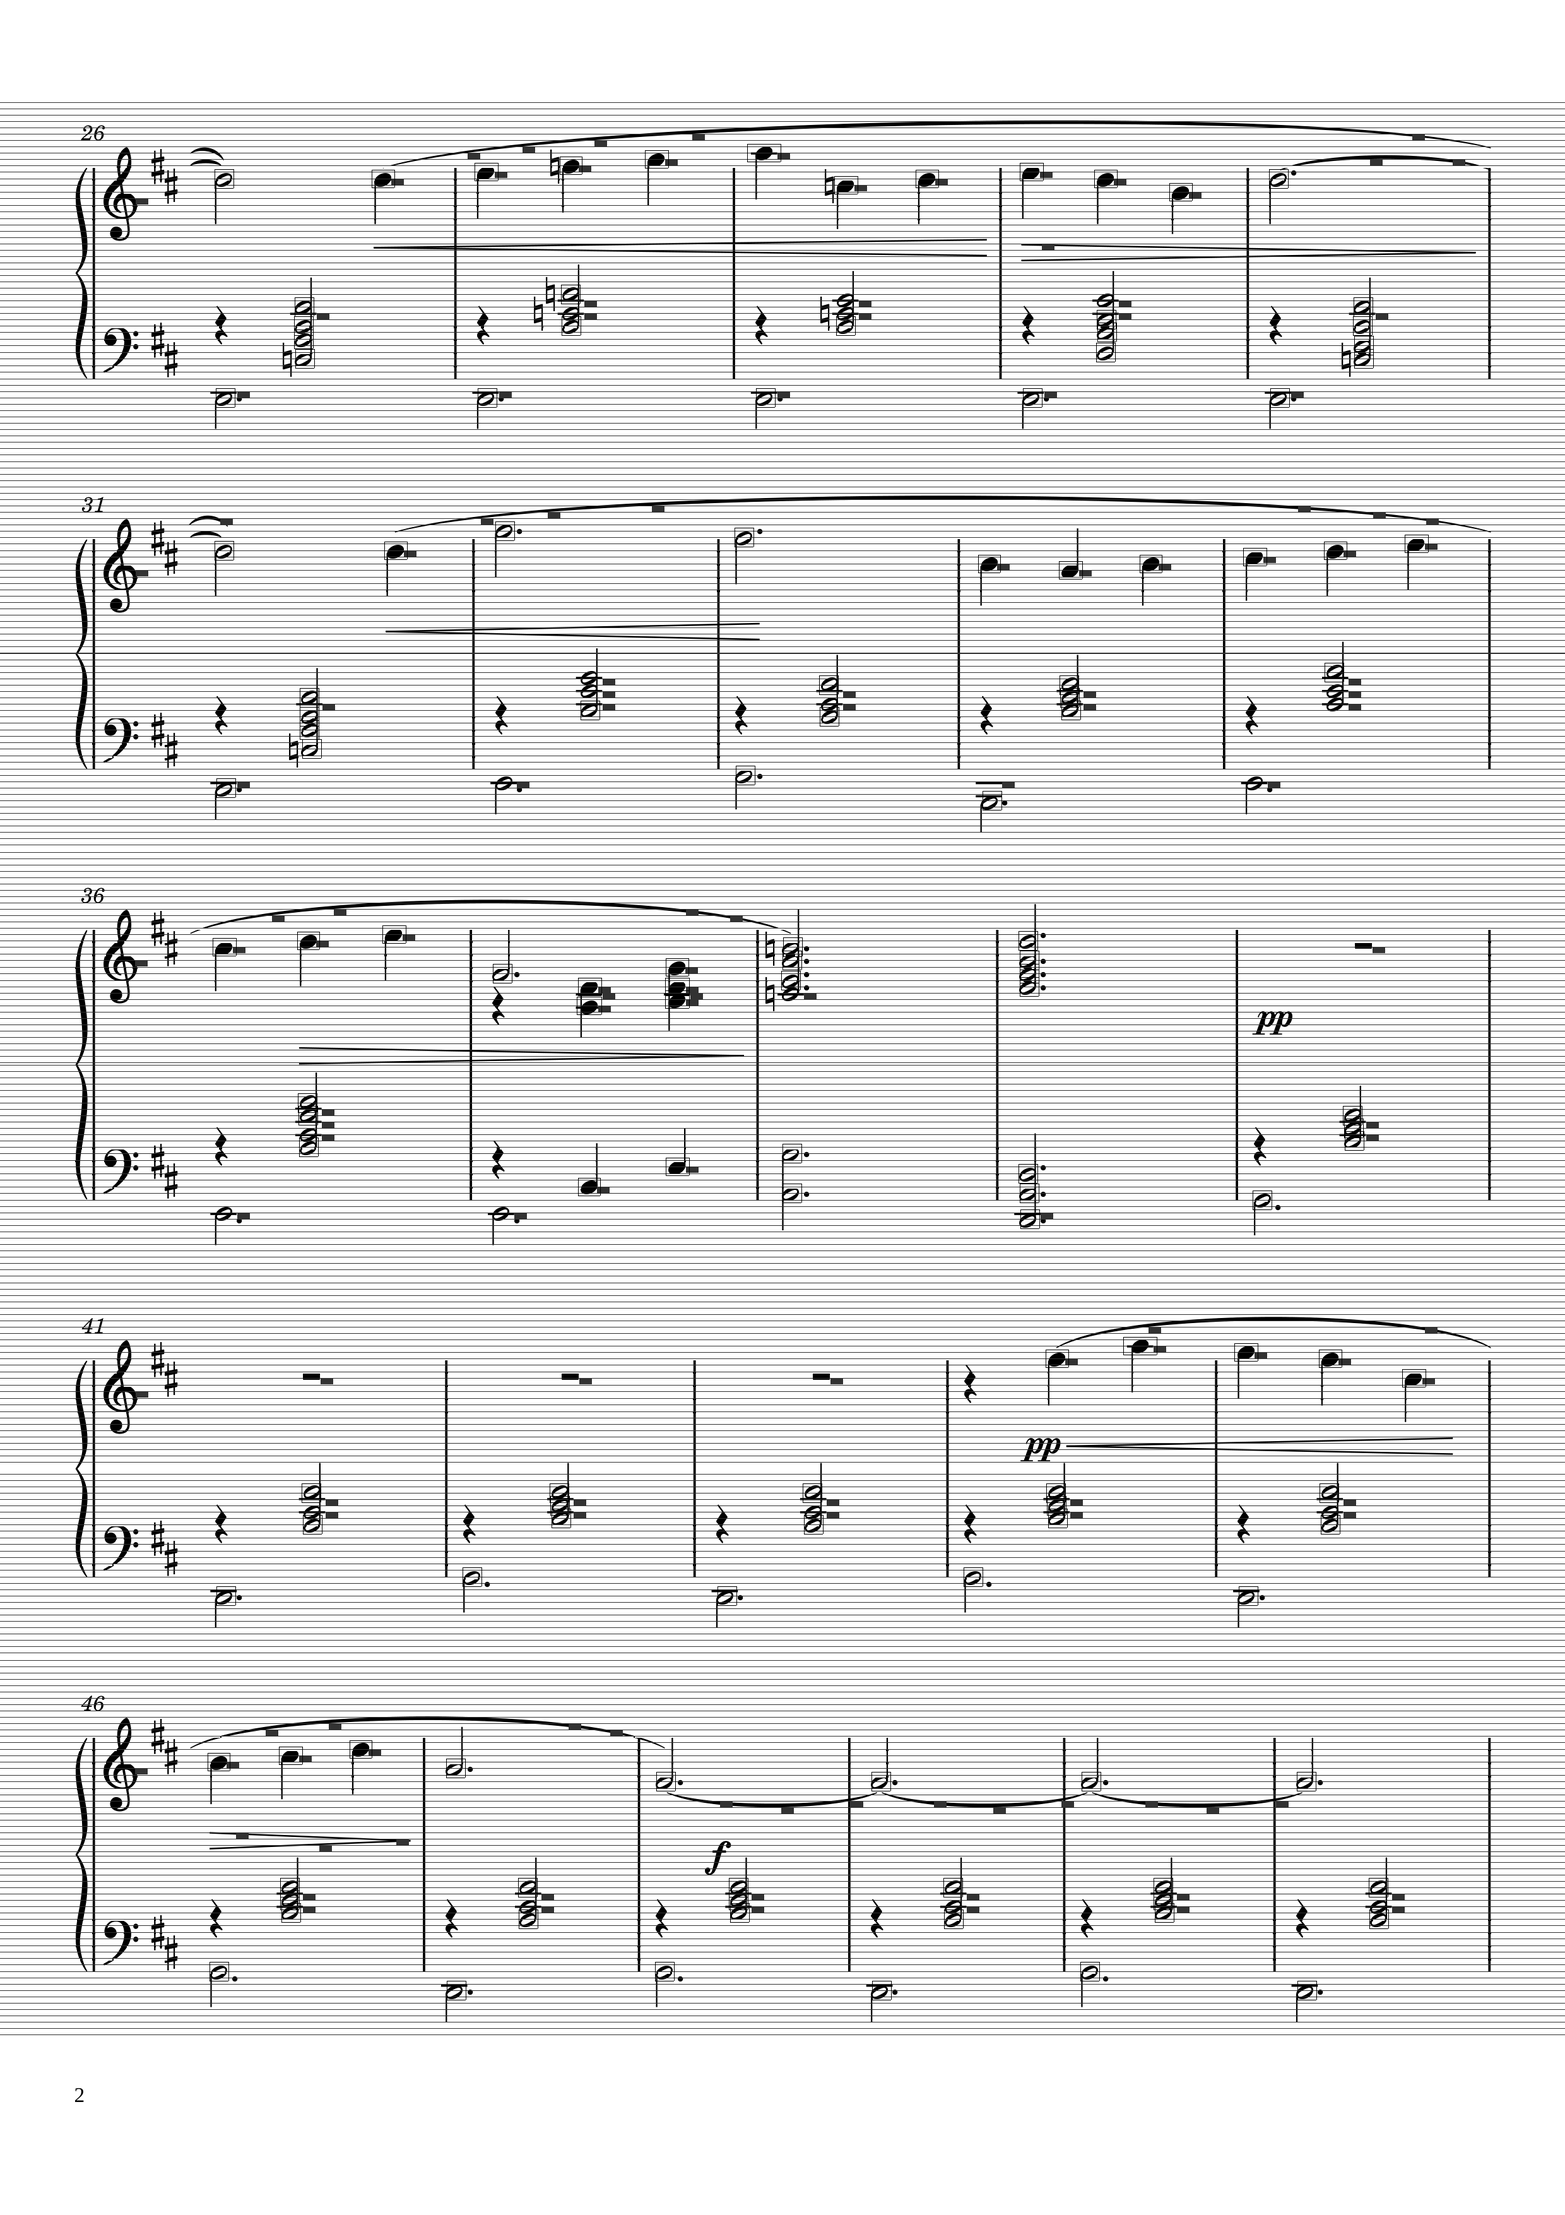
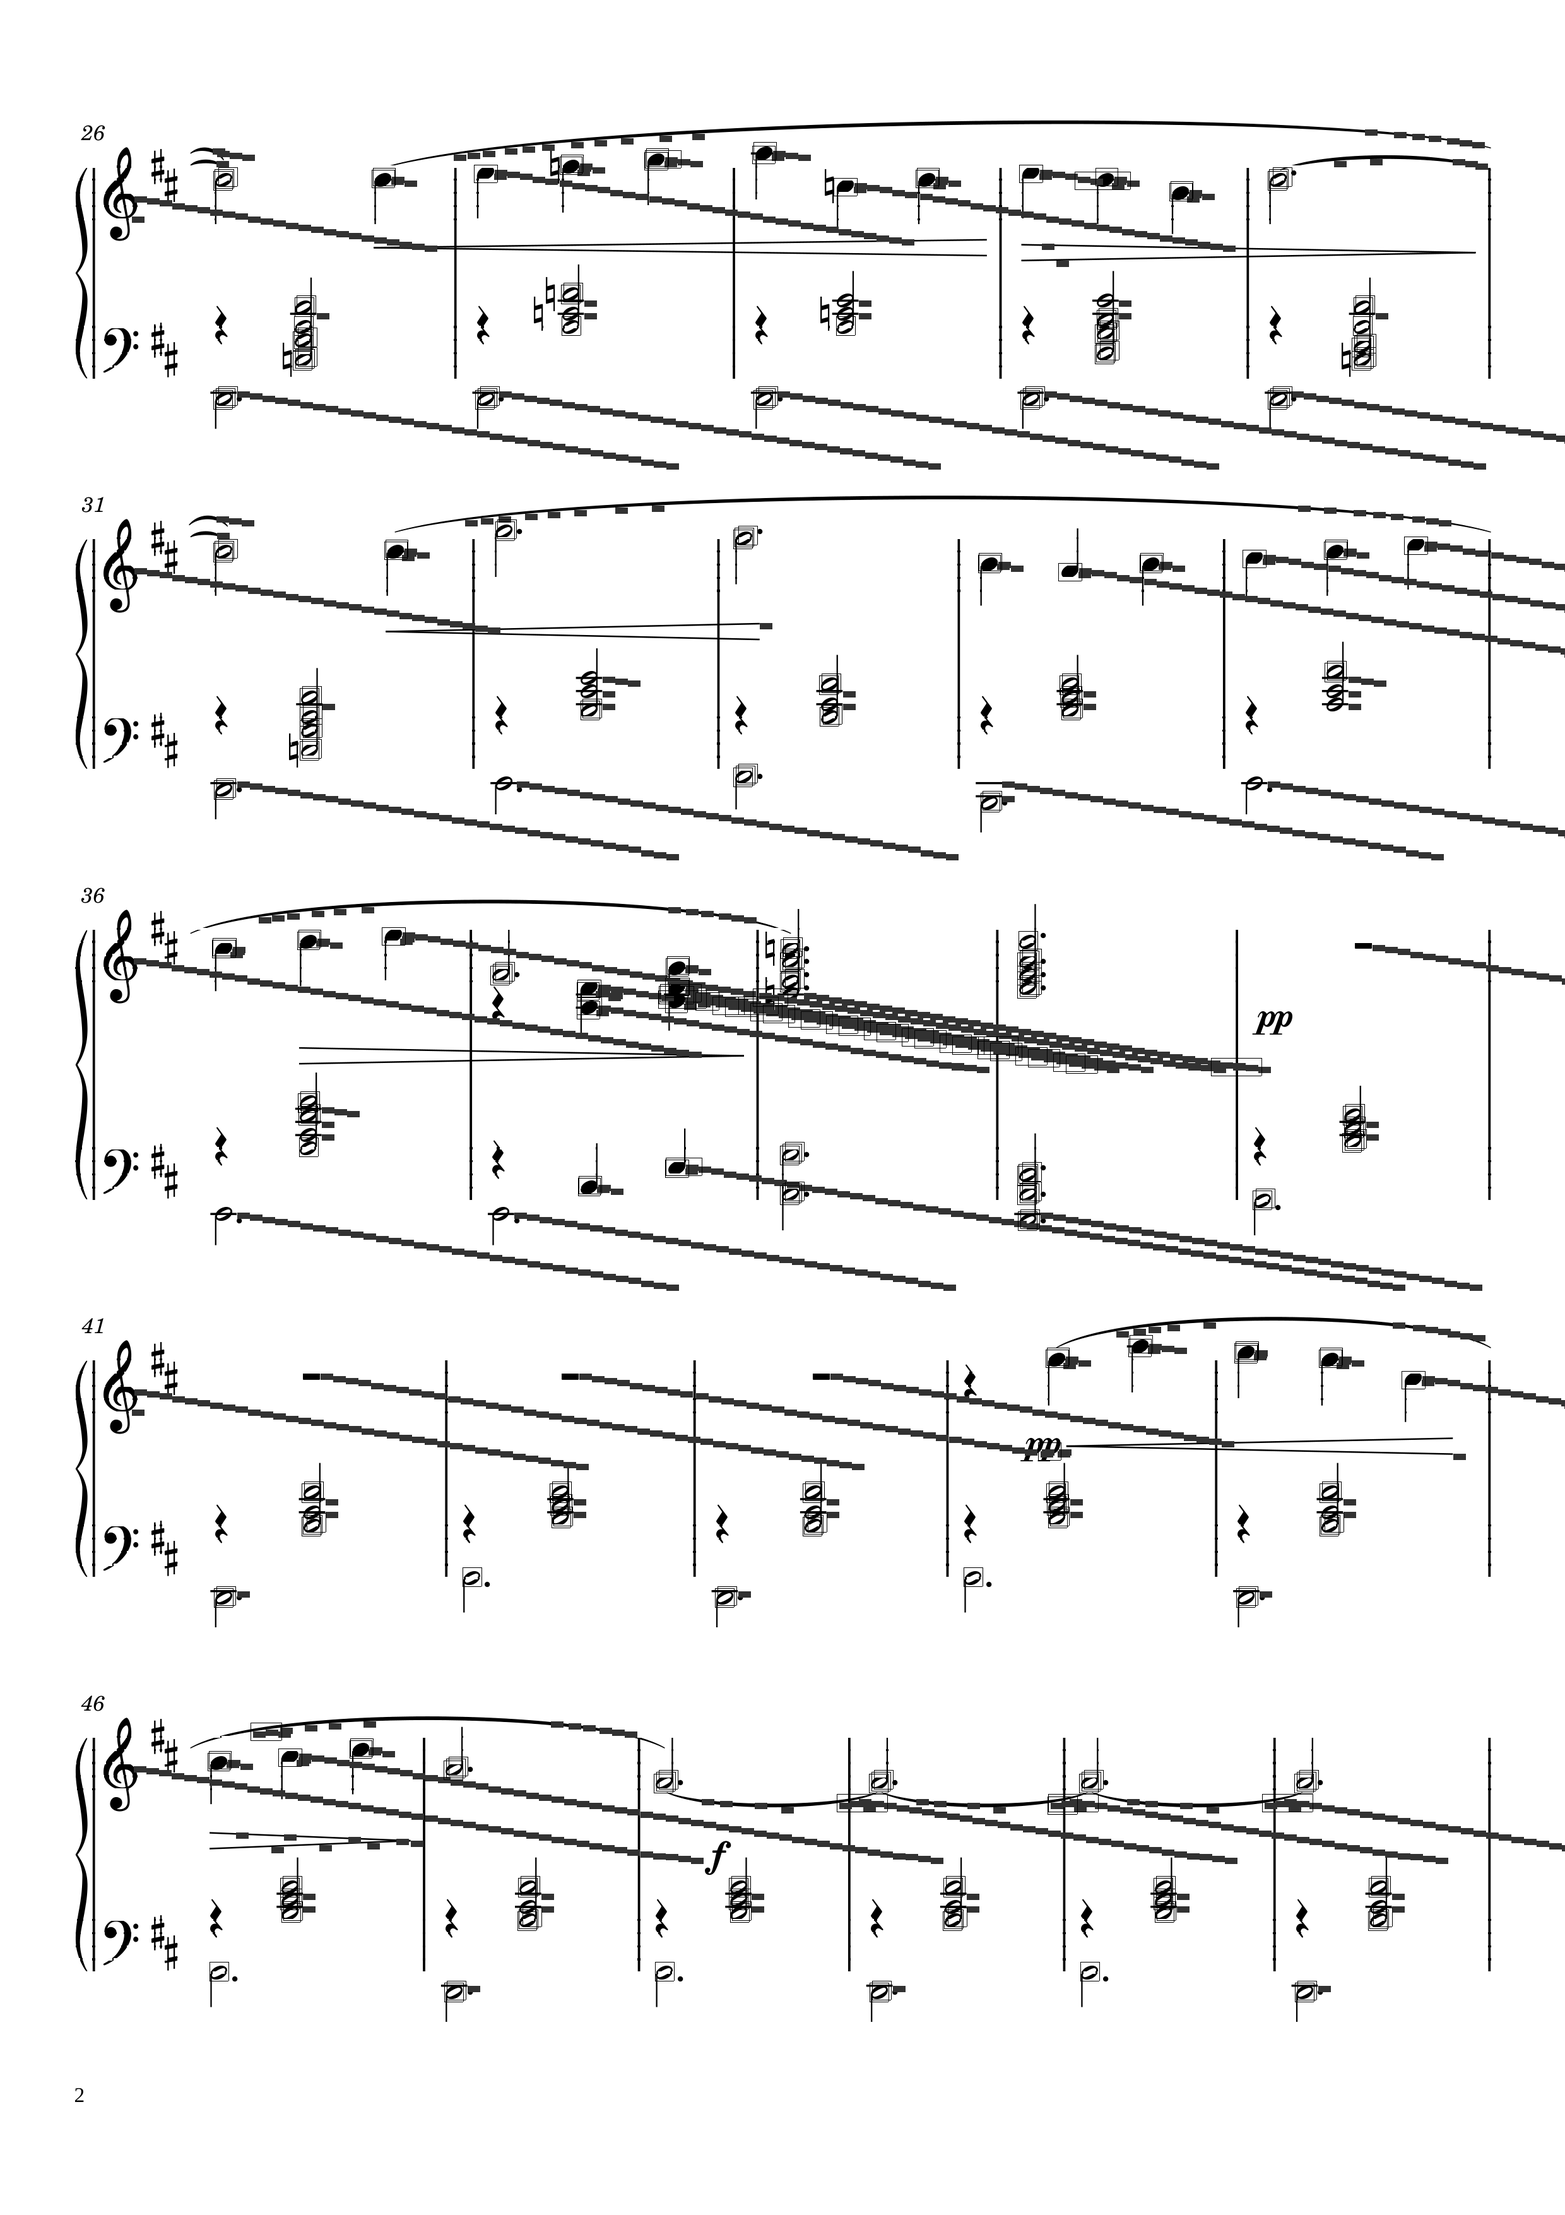
workfromhere

Changed region(s): [[0.0, 0.0621, 1.0, 0.9008]]

diff --git a/main.py b/main.py
@@ -1,10 +1,16 @@
-#A BIG ISSUE HERE IS THAT THE DIFFERENCE IS 10 AND THEN 9 WE HAVE CURRENT LOOP Y SCREWED UP FOR THE ADDING
-#HAVE O FIGURE OUT Y!!!
-
-
+#fix the overlap and clear up the screen
+#it should start working better from here
+#i know it makes it hard but it is worth it for accuracy
 
 
 #work on dashes
+#A BIG ISSUE HERE IS THAT THE DIFFERENCE IS 10 AND THEN 9 WE HAVE CURRENT LOOP Y SCREWED UP FOR THE ADDING
+#HAVE O FIGURE OUT Y!!!
+#it has to do w the fact then when it goes off it doesn't do it from the previous past few but just from the last few
+
+
+
+
 
 from PIL import Image, ImageDraw
 from pathlib import Path
@@ -50,6 +56,7 @@ def draw_example_rectangle(image_path, rect):
     img.save(image_path)
 
 def extract_highlighted_lines_and_columns_from_image(image_path, threshold=2/3):
+
     # Load the image
     img = Image.open(image_path).convert("L")  # Convert to grayscale
 
@@ -113,45 +120,75 @@ def extract_highlighted_lines_and_columns_from_image(image_path, threshold=2/3):
     
     group = []
 
+    temp_difference = -1
+
+
+    #my idea here is to add it for the lines + and minus the (line height / 2)
+    #if there is overlap we will eliminate
+
+
+
+
+
+
+
+    half_line_height = int(line_height / 2) + 1
+
     for row_index in range(len(lines)):
         row = lines[row_index]
         current_y = row[1]
-        #this is when it is on the last line of a staff and ends up going down
         if (row_index + 1) % 5 == 0:
             if row_index == len(lines) - 1:
                 stopping_point = row[1]
                 while stopping_point < height and stopping_point <= row[1] + staff_white_range:
-                    stopping_point += round(difference_between_lines_for_line_drawing / 2)
-                stopping_point -= round(difference_between_lines_for_line_drawing / 2)
+                    stopping_point += round(temp_difference / 2)
+                stopping_point -= round(temp_difference / 2)
             else:
                 stopping_point = (row[1] + lines[row_index + 1][1]) / 2
             while current_y <= stopping_point:
-                group.append(current_y)
-                current_y += round(difference_between_lines_for_line_drawing / 2)
+                group.extend([current_y - half_line_height, current_y])
+                if current_y + half_line_height < height:
+                    group.append(current_y + half_line_height)
+                current_y += round(temp_difference / 2)
             invisible_lines.append(group)
             group = []
         #this is on the first line of a staff and goes up 
         elif row_index % 5 == 0:
             #Going to work on the removal of the every other line HERE!!!!
+            temp_difference = lines[row_index + 1][1] - current_y
             if row_index == 0:
                 stopping_point = row[1] 
                 while stopping_point > 0 and stopping_point >= row[1] - staff_white_range:
-                    stopping_point -= round(difference_between_lines_for_line_drawing / 2)
-                stopping_point += round(difference_between_lines_for_line_drawing / 2)
+                    stopping_point -= round(temp_difference / 2)
+                    print(round(temp_difference/2))
+
+                stopping_point += round(temp_difference / 2)
             else:
                 stopping_point = (row[1] + lines[row_index - 1][1]) / 2
             while current_y >= stopping_point:
-                group.append(current_y)
-                current_y -= round(difference_between_lines_for_line_drawing / 2)
-            for add_row_index in range(4):
+                group.extend([current_y - half_line_height, current_y, current_y + half_line_height])
+                current_y -= round(temp_difference / 2)
+            for add_row_index in range(4): 
                 future_line = lines[row_index + add_row_index + 1][1] 
-                group.append(int((future_line + lines[row_index + add_row_index][1]) / 2))
+                group.extend([int((future_line + lines[row_index + add_row_index][1]) / 2) - half_line_height, int((future_line + lines[row_index + add_row_index][1]) / 2), int((future_line + lines[row_index + add_row_index][1]) / 2) + half_line_height])
                 if add_row_index != 3:
-                    group.append(future_line)
+                    group.extend([future_line - half_line_height, future_line, future_line + half_line_height])
+
+
+
+
+
+
+
+
+
+
+
 
     for group in invisible_lines:
         last_row_notes = []
         for current_loop_y in group:
+            #y it is varying is what is confusing me after all of this
             temp_notes = []        
             black_count = 0
             difference_between_blacks = -1
@@ -225,6 +262,9 @@ def extract_highlighted_lines_and_columns_from_image(image_path, threshold=2/3):
                                         break
                                     right_addend = 0
                                     while True:
+                                        if temp_pixel_1 + right_addend >= width:
+                                            white_note = False
+                                            break
                                         new_pixel = img_array[temp_pixel_0 - 1, temp_pixel_1 + right_addend]                                    
                                         if new_pixel == 255:
                                             break
@@ -252,6 +292,9 @@ def extract_highlighted_lines_and_columns_from_image(image_path, threshold=2/3):
                 if pixel != 255 and x_index != width - 1:
                     black_count += 1
                 elif black_count >= difference_between_lines_for_line_drawing * 1.15 and black_count < difference_between_lines_for_line_drawing * 5:
+                    #i think it thinks they're white
+
+                    img_array[current_loop_y: current_loop_y + 10, x_index: x_index + 20] = 50
 
                     #apply my logic to see if it is a black note
                     middle_x = x_index - round(black_count / 2)
@@ -267,8 +310,7 @@ def extract_highlighted_lines_and_columns_from_image(image_path, threshold=2/3):
 
                         #let's hope our black note logic isn't screwed up and it does the dash thing here
                         #so it's not being identified for anything
-                        img_array[current_loop_y: current_loop_y + 10, x_index: x_index + 20] = 50
-
+                        #img_array[current_loop_y: current_loop_y + 10, x_index: x_index + 20] = 50
 
                         #has to be x, y tuple
                         top_left = [x_index - black_count, current_loop_y - (round(difference_between_lines_for_line_drawing / 2) - 1)]
@@ -461,8 +503,10 @@ for filename in os.listdir(input_folder):
     if filename.endswith(".png") or filename.endswith(".jpg"):
         image_path = os.path.join(input_folder, filename)
         #put this back eventually 
-        try:
+        extract_highlighted_lines_and_columns_from_image(image_path)
+
+        """ try:
             extract_highlighted_lines_and_columns_from_image(image_path)
         except IndexError as e:
-            print(e) 
+            print(e)  """
         

diff --git a/testing.py b/testing.py
@@ -52,7 +52,6 @@ def draw_example_rectangle(image_path, rect):
 
 def extract_highlighted_lines_and_columns_from_image(image_path, threshold=2/3):
 
-    print("HIII")
     # Load the image
     img = Image.open(image_path).convert("L")  # Convert to grayscale
 
@@ -116,57 +115,75 @@ def extract_highlighted_lines_and_columns_from_image(image_path, threshold=2/3):
     
     group = []
 
+    temp_difference = -1
+
+
+    #my idea here is to add it for the lines + and minus the (line height / 2)
+    #if there is overlap we will eliminate
+
+
+
+
+
+
+
+    half_line_height = int(line_height / 2) + 1
+
     for row_index in range(len(lines)):
         row = lines[row_index]
         current_y = row[1]
-
-
-        #need to do int average instead of just /2 thing
-        #we just need a way to measure it from when it goes thru the middle and then go from there
-        #we might need to reverse the order of the elses ngl
-        #this is when it is on the last line of a staff and ends up going down
         if (row_index + 1) % 5 == 0:
             if row_index == len(lines) - 1:
                 stopping_point = row[1]
                 while stopping_point < height and stopping_point <= row[1] + staff_white_range:
-                    stopping_point += round(difference_between_lines_for_line_drawing / 2)
-                stopping_point -= round(difference_between_lines_for_line_drawing / 2)
+                    stopping_point += round(temp_difference / 2)
+                stopping_point -= round(temp_difference / 2)
             else:
                 stopping_point = (row[1] + lines[row_index + 1][1]) / 2
             while current_y <= stopping_point:
-                group.append(current_y)
-                current_y += round(difference_between_lines_for_line_drawing / 2)
+                group.extend([current_y - half_line_height, current_y])
+                if current_y + half_line_height < height:
+                    group.append(current_y + half_line_height)
+                current_y += round(temp_difference / 2)
             invisible_lines.append(group)
             group = []
         #this is on the first line of a staff and goes up 
         elif row_index % 5 == 0:
             #Going to work on the removal of the every other line HERE!!!!
+            temp_difference = lines[row_index + 1][1] - current_y
             if row_index == 0:
                 stopping_point = row[1] 
                 while stopping_point > 0 and stopping_point >= row[1] - staff_white_range:
-                    stopping_point -= round(difference_between_lines_for_line_drawing / 2)
-                stopping_point += round(difference_between_lines_for_line_drawing / 2)
+                    stopping_point -= round(temp_difference / 2)
+                    print(round(temp_difference/2))
+
+                stopping_point += round(temp_difference / 2)
             else:
                 stopping_point = (row[1] + lines[row_index - 1][1]) / 2
             while current_y >= stopping_point:
-                group.append(current_y)
-
-                #here we need an average from the past thing
-                #we also need an int average from the last thing
-                current_y -= round(difference_between_lines_for_line_drawing / 2)
-            for add_row_index in range(4):
+                group.extend([current_y - half_line_height, current_y, current_y + half_line_height])
+                current_y -= round(temp_difference / 2)
+            for add_row_index in range(4): 
                 future_line = lines[row_index + add_row_index + 1][1] 
-                group.append(int((future_line + lines[row_index + add_row_index][1]) / 2))
+                group.extend([int((future_line + lines[row_index + add_row_index][1]) / 2) - half_line_height, int((future_line + lines[row_index + add_row_index][1]) / 2), int((future_line + lines[row_index + add_row_index][1]) / 2) + half_line_height])
                 if add_row_index != 3:
-                    group.append(future_line)
+                    group.extend([future_line - half_line_height, future_line, future_line + half_line_height])
 
-    past = 0
+
+
+
+
+
+
+
+
+
+
+
     for group in invisible_lines:
         last_row_notes = []
         for current_loop_y in group:
-            if past != 0:
-                print(current_loop_y - past)
-            past = current_loop_y
+            #y it is varying is what is confusing me after all of this
             temp_notes = []        
             black_count = 0
             difference_between_blacks = -1
@@ -240,6 +257,9 @@ def extract_highlighted_lines_and_columns_from_image(image_path, threshold=2/3):
                                         break
                                     right_addend = 0
                                     while True:
+                                        if temp_pixel_1 + right_addend >= width:
+                                            white_note = False
+                                            break
                                         new_pixel = img_array[temp_pixel_0 - 1, temp_pixel_1 + right_addend]                                    
                                         if new_pixel == 255:
                                             break
@@ -264,8 +284,6 @@ def extract_highlighted_lines_and_columns_from_image(image_path, threshold=2/3):
             
             for x_index in range(width):
                 pixel = img_array[current_loop_y, x_index]
-                #see if it goes from
-                img_array[current_loop_y, x_index] = 50
                 if pixel != 255 and x_index != width - 1:
                     black_count += 1
                 elif black_count >= difference_between_lines_for_line_drawing * 1.15 and black_count < difference_between_lines_for_line_drawing * 5:
@@ -480,8 +498,10 @@ for filename in os.listdir(input_folder):
     if filename.endswith(".png") or filename.endswith(".jpg"):
         image_path = os.path.join(input_folder, filename)
         #put this back eventually 
-        try:
+        extract_highlighted_lines_and_columns_from_image(image_path)
+
+        """ try:
             extract_highlighted_lines_and_columns_from_image(image_path)
         except IndexError as e:
-            print(e) 
+            print(e)  """
         
